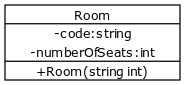
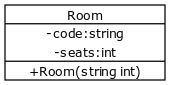
Ex 96

diff --git a/part4/objects/exercise_96/ProgramTests.cs b/part4/objects/exercise_96/ProgramTests.cs
@@ -1,0 +1,93 @@
+using System;
+using System.IO;
+using exercise_96;
+using NUnit.Framework;
+using System.Text.RegularExpressions;
+using System.Collections.Generic;
+
+namespace ProgramTests
+{
+  [TestFixture]
+  public class TestProgram
+  {
+
+    [Test]
+    public void TestFileRoomExists()
+    {
+      Assert.IsTrue(File.Exists("../../../Room.cs"), "You haven't created the file yet");
+    }
+
+    [Test]
+    public void TestFindPrivateStringCode()
+    {
+      string code = "";
+      try
+      {
+        code = File.ReadAllText("../../../Room.cs");
+      }
+      catch
+      {
+        Console.WriteLine("Your file is not there yet!");
+      }
+      int count = Regex.Matches(code, "private string code;").Count;
+
+      Assert.AreEqual(1, count, "You were supposed to give the class 'private string code'!");
+    }
+
+    [Test]
+    public void TestFindPrivateIntSeats()
+    {
+      string code = "";
+      try
+      {
+        code = File.ReadAllText("../../../Room.cs");
+      }
+      catch
+      {
+        Console.WriteLine("Your file is not there yet!");
+      }
+      int count = Regex.Matches(code, "private int seats;").Count;
+
+      Assert.AreEqual(1, count, "You were supposed to give the class 'private int seats'!");
+    }
+
+    [Test]
+    public void TestFindConstructor()
+    {
+      string code = "";
+      try
+      {
+        code = File.ReadAllText("../../../Room.cs");
+      }
+      catch
+      {
+        Console.WriteLine("Your file is not there yet!");
+      }
+      int count = Regex.Matches(code, @"public Room\(string classCode, int numberOfSeats\)").Count;
+
+      Assert.AreEqual(1, count, "You were supposed to give the class a constructor!");
+    }
+
+   [Test]
+    public void TestExerciseRoomCreation()
+    {
+      using (StringWriter sw = new StringWriter())
+      {
+        // Save a reference to the standard output.
+        TextWriter stdout = Console.Out;
+
+        // Redirect standard output to variable.
+        Console.SetOut(sw);
+
+        Room room = new Room("test", 12);
+
+        // Restore the original standard output.
+        Console.SetOut(stdout);
+
+        // Assert
+        Assert.AreEqual(room.GetType(), typeof(Room), "The room should be able to be created with constructor call!");
+      }
+    }
+
+  }
+}

diff --git a/part4/objects/exercise_96/Program.cs b/part4/objects/exercise_96/Program.cs
@@ -1,0 +1,18 @@
+using System;
+using System.Collections.Generic;
+
+namespace exercise_96
+{
+  class Program
+  {
+    public static void Main(string[] args)
+    {
+      // No need to code here.
+      // Create Room.cs and follow the instructions!
+
+    }
+  }
+}
+
+
+

diff --git a/README.md b/README.md
@@ -2210,3 +2210,5 @@ NOTICE! You have to give your dog **namespace exercise_95** for it to function!
 Create a class named **Room** (and file **Room.cs**). Add the variables **private string code** and **private int seats** to the class. Then create a constructor **public Room(string classCode, int numberOfSeats)** through which values are assigned to the instance variables.
 
 ![Room class diagram](https://github.com/centria/coding-exercises/raw/master/assets/images/roomclass.jpg)
+
+NOTICE! You have to give your room **namespace exercise_96** for it to function!
